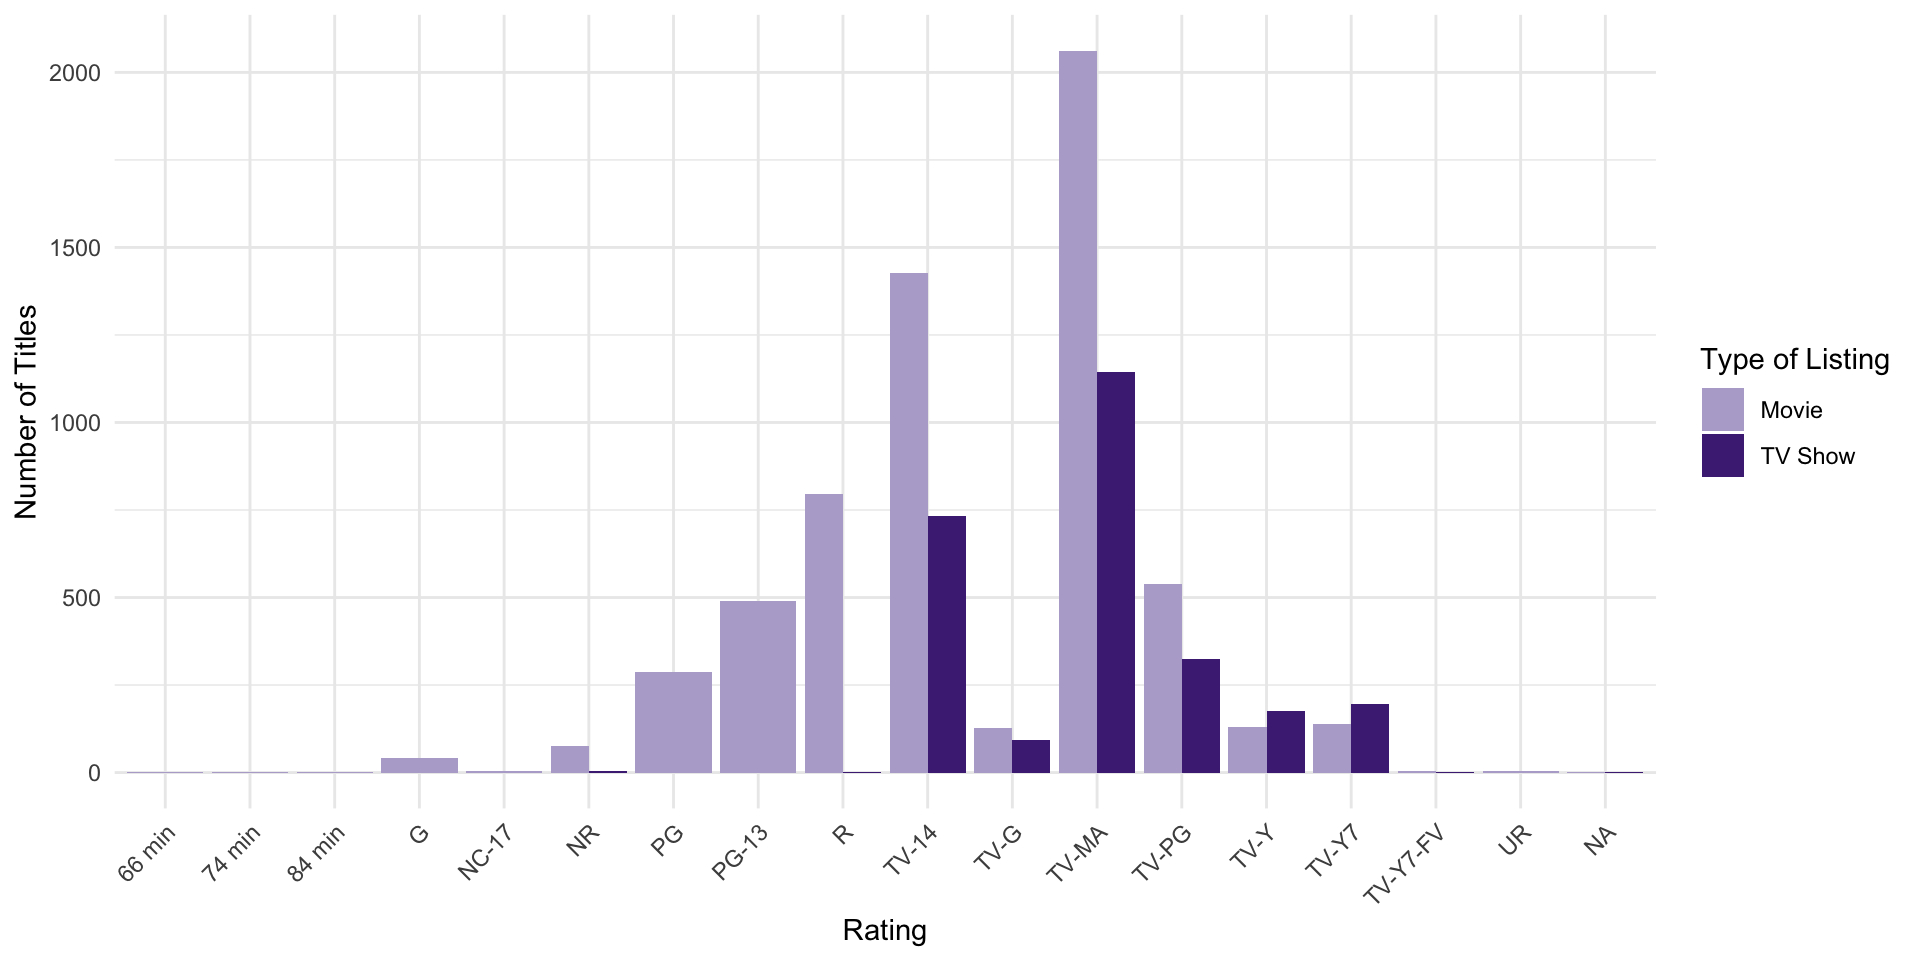
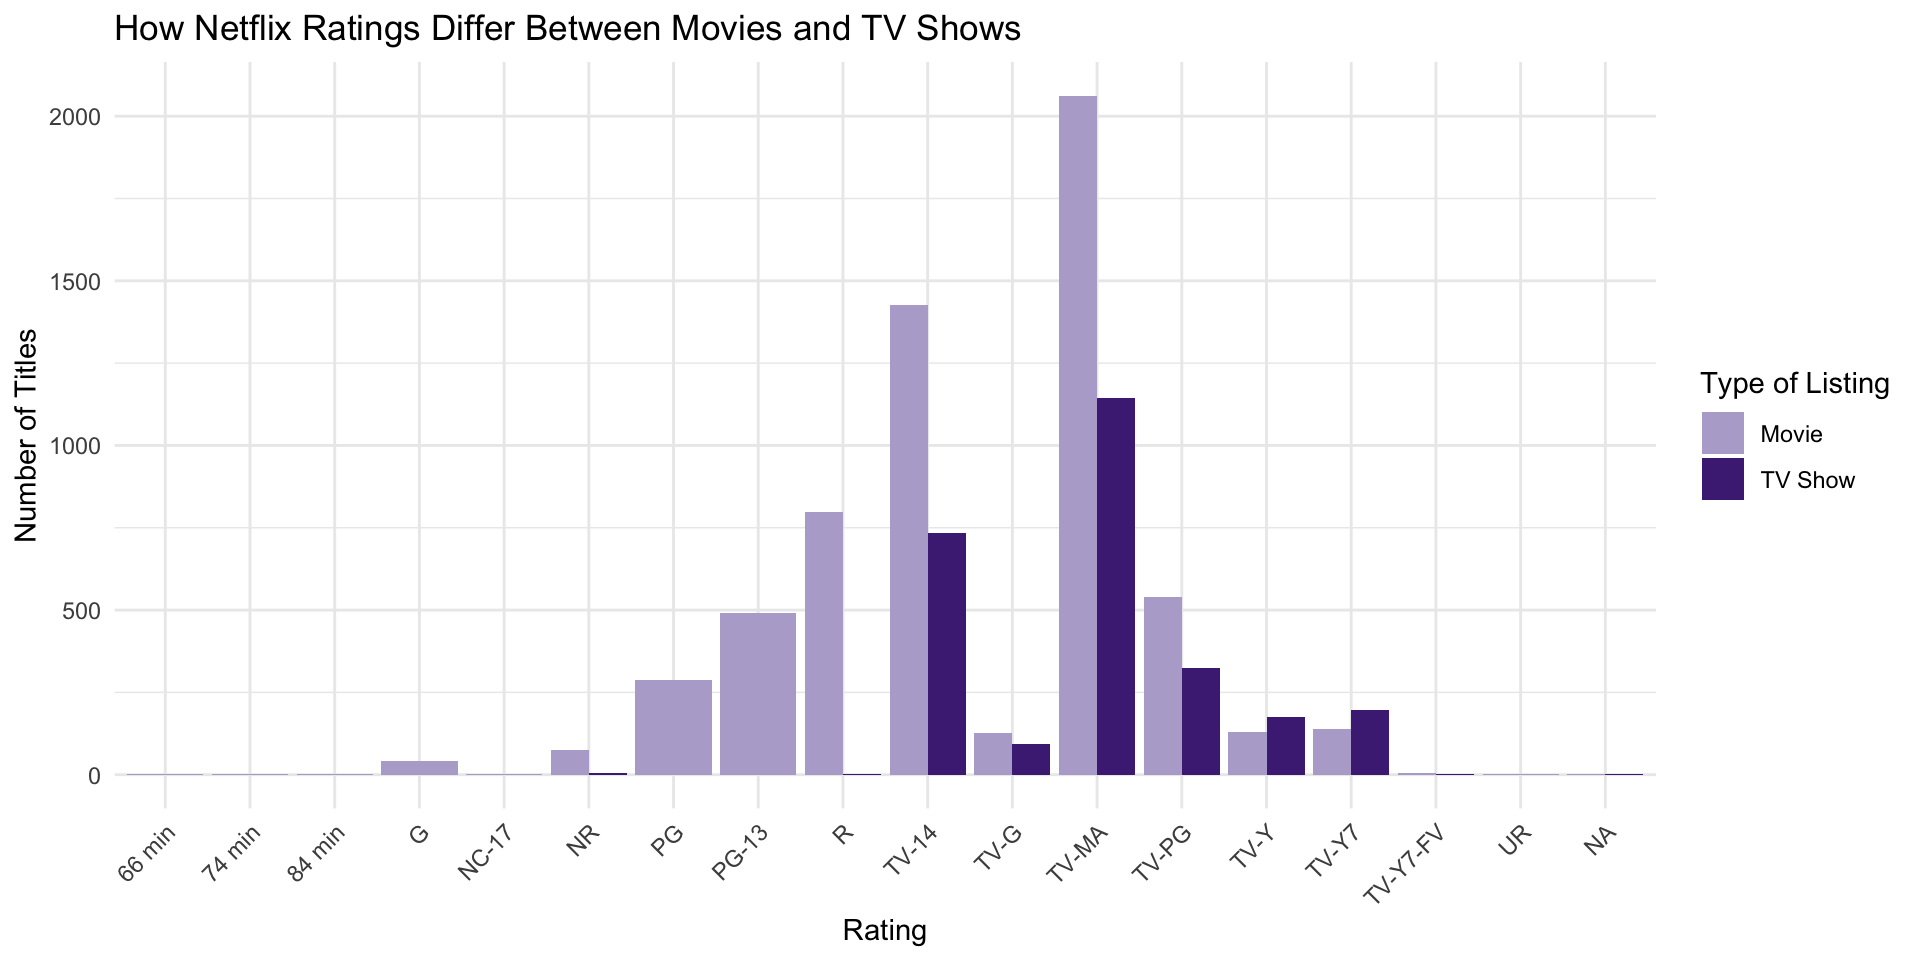
plot title

diff --git a/final_project_presentation.html b/final_project_presentation.html
@@ -358,23 +358,23 @@ Chiemela Onuoha
 <div class="content-center">
 <div class="cell">
 <div class="cell-output-display">
-<div id="lajhycfzrt" style="padding-left:0px;padding-right:0px;padding-top:10px;padding-bottom:10px;overflow-x:auto;overflow-y:auto;width:auto;height:auto;">
-<style>#lajhycfzrt table {
+<div id="cjeyrpwakg" style="padding-left:0px;padding-right:0px;padding-top:10px;padding-bottom:10px;overflow-x:auto;overflow-y:auto;width:auto;height:auto;">
+<style>#cjeyrpwakg table {
   font-family: system-ui, 'Segoe UI', Roboto, Helvetica, Arial, sans-serif, 'Apple Color Emoji', 'Segoe UI Emoji', 'Segoe UI Symbol', 'Noto Color Emoji';
   -webkit-font-smoothing: antialiased;
   -moz-osx-font-smoothing: grayscale;
 }
 
-#lajhycfzrt thead, #lajhycfzrt tbody, #lajhycfzrt tfoot, #lajhycfzrt tr, #lajhycfzrt td, #lajhycfzrt th {
+#cjeyrpwakg thead, #cjeyrpwakg tbody, #cjeyrpwakg tfoot, #cjeyrpwakg tr, #cjeyrpwakg td, #cjeyrpwakg th {
   border-style: none;
 }
 
-#lajhycfzrt p {
+#cjeyrpwakg p {
   margin: 0;
   padding: 0;
 }
 
-#lajhycfzrt .gt_table {
+#cjeyrpwakg .gt_table {
   display: table;
   border-collapse: collapse;
   line-height: normal;
@@ -400,12 +400,12 @@ Chiemela Onuoha
   border-left-color: #D3D3D3;
 }
 
-#lajhycfzrt .gt_caption {
+#cjeyrpwakg .gt_caption {
   padding-top: 4px;
   padding-bottom: 4px;
 }
 
-#lajhycfzrt .gt_title {
+#cjeyrpwakg .gt_title {
   color: #333333;
   font-size: 125%;
   font-weight: initial;
@@ -417,7 +417,7 @@ Chiemela Onuoha
   border-bottom-width: 0;
 }
 
-#lajhycfzrt .gt_subtitle {
+#cjeyrpwakg .gt_subtitle {
   color: #333333;
   font-size: 85%;
   font-weight: initial;
@@ -429,7 +429,7 @@ Chiemela Onuoha
   border-top-width: 0;
 }
 
-#lajhycfzrt .gt_heading {
+#cjeyrpwakg .gt_heading {
   background-color: #FFFFFF;
   text-align: center;
   border-bottom-color: #FFFFFF;
@@ -441,13 +441,13 @@ Chiemela Onuoha
   border-right-color: #D3D3D3;
 }
 
-#lajhycfzrt .gt_bottom_border {
+#cjeyrpwakg .gt_bottom_border {
   border-bottom-style: solid;
   border-bottom-width: 2px;
   border-bottom-color: #D3D3D3;
 }
 
-#lajhycfzrt .gt_col_headings {
+#cjeyrpwakg .gt_col_headings {
   border-top-style: solid;
   border-top-width: 2px;
   border-top-color: #D3D3D3;
@@ -462,7 +462,7 @@ Chiemela Onuoha
   border-right-color: #D3D3D3;
 }
 
-#lajhycfzrt .gt_col_heading {
+#cjeyrpwakg .gt_col_heading {
   color: #333333;
   background-color: #FFFFFF;
   font-size: 100%;
@@ -482,7 +482,7 @@ Chiemela Onuoha
   overflow-x: hidden;
 }
 
-#lajhycfzrt .gt_column_spanner_outer {
+#cjeyrpwakg .gt_column_spanner_outer {
   color: #333333;
   background-color: #FFFFFF;
   font-size: 100%;
@@ -494,15 +494,15 @@ Chiemela Onuoha
   padding-right: 4px;
 }
 
-#lajhycfzrt .gt_column_spanner_outer:first-child {
+#cjeyrpwakg .gt_column_spanner_outer:first-child {
   padding-left: 0;
 }
 
-#lajhycfzrt .gt_column_spanner_outer:last-child {
+#cjeyrpwakg .gt_column_spanner_outer:last-child {
   padding-right: 0;
 }
 
-#lajhycfzrt .gt_column_spanner {
+#cjeyrpwakg .gt_column_spanner {
   border-bottom-style: solid;
   border-bottom-width: 2px;
   border-bottom-color: #D3D3D3;
@@ -514,11 +514,11 @@ Chiemela Onuoha
   width: 100%;
 }
 
-#lajhycfzrt .gt_spanner_row {
+#cjeyrpwakg .gt_spanner_row {
   border-bottom-style: hidden;
 }
 
-#lajhycfzrt .gt_group_heading {
+#cjeyrpwakg .gt_group_heading {
   padding-top: 8px;
   padding-bottom: 8px;
   padding-left: 5px;
@@ -544,7 +544,7 @@ Chiemela Onuoha
   text-align: left;
 }
 
-#lajhycfzrt .gt_empty_group_heading {
+#cjeyrpwakg .gt_empty_group_heading {
   padding: 0.5px;
   color: #333333;
   background-color: #FFFFFF;
@@ -559,15 +559,15 @@ Chiemela Onuoha
   vertical-align: middle;
 }
 
-#lajhycfzrt .gt_from_md > :first-child {
+#cjeyrpwakg .gt_from_md > :first-child {
   margin-top: 0;
 }
 
-#lajhycfzrt .gt_from_md > :last-child {
+#cjeyrpwakg .gt_from_md > :last-child {
   margin-bottom: 0;
 }
 
-#lajhycfzrt .gt_row {
+#cjeyrpwakg .gt_row {
   padding-top: 8px;
   padding-bottom: 8px;
   padding-left: 5px;
@@ -586,7 +586,7 @@ Chiemela Onuoha
   overflow-x: hidden;
 }
 
-#lajhycfzrt .gt_stub {
+#cjeyrpwakg .gt_stub {
   color: #333333;
   background-color: #FFFFFF;
   font-size: 100%;
@@ -599,7 +599,7 @@ Chiemela Onuoha
   padding-right: 5px;
 }
 
-#lajhycfzrt .gt_stub_row_group {
+#cjeyrpwakg .gt_stub_row_group {
   color: #333333;
   background-color: #FFFFFF;
   font-size: 100%;
@@ -613,15 +613,15 @@ Chiemela Onuoha
   vertical-align: top;
 }
 
-#lajhycfzrt .gt_row_group_first td {
+#cjeyrpwakg .gt_row_group_first td {
   border-top-width: 2px;
 }
 
-#lajhycfzrt .gt_row_group_first th {
+#cjeyrpwakg .gt_row_group_first th {
   border-top-width: 2px;
 }
 
-#lajhycfzrt .gt_summary_row {
+#cjeyrpwakg .gt_summary_row {
   color: #333333;
   background-color: #FFFFFF;
   text-transform: inherit;
@@ -631,16 +631,16 @@ Chiemela Onuoha
   padding-right: 5px;
 }
 
-#lajhycfzrt .gt_first_summary_row {
+#cjeyrpwakg .gt_first_summary_row {
   border-top-style: solid;
   border-top-color: #D3D3D3;
 }
 
-#lajhycfzrt .gt_first_summary_row.thick {
+#cjeyrpwakg .gt_first_summary_row.thick {
   border-top-width: 2px;
 }
 
-#lajhycfzrt .gt_last_summary_row {
+#cjeyrpwakg .gt_last_summary_row {
   padding-top: 8px;
   padding-bottom: 8px;
   padding-left: 5px;
@@ -650,7 +650,7 @@ Chiemela Onuoha
   border-bottom-color: #D3D3D3;
 }
 
-#lajhycfzrt .gt_grand_summary_row {
+#cjeyrpwakg .gt_grand_summary_row {
   color: #333333;
   background-color: #FFFFFF;
   text-transform: inherit;
@@ -660,7 +660,7 @@ Chiemela Onuoha
   padding-right: 5px;
 }
 
-#lajhycfzrt .gt_first_grand_summary_row {
+#cjeyrpwakg .gt_first_grand_summary_row {
   padding-top: 8px;
   padding-bottom: 8px;
   padding-left: 5px;
@@ -670,7 +670,7 @@ Chiemela Onuoha
   border-top-color: #D3D3D3;
 }
 
-#lajhycfzrt .gt_last_grand_summary_row_top {
+#cjeyrpwakg .gt_last_grand_summary_row_top {
   padding-top: 8px;
   padding-bottom: 8px;
   padding-left: 5px;
@@ -680,11 +680,11 @@ Chiemela Onuoha
   border-bottom-color: #D3D3D3;
 }
 
-#lajhycfzrt .gt_striped {
+#cjeyrpwakg .gt_striped {
   background-color: rgba(128, 128, 128, 0.05);
 }
 
-#lajhycfzrt .gt_table_body {
+#cjeyrpwakg .gt_table_body {
   border-top-style: solid;
   border-top-width: 2px;
   border-top-color: #D3D3D3;
@@ -693,7 +693,7 @@ Chiemela Onuoha
   border-bottom-color: #D3D3D3;
 }
 
-#lajhycfzrt .gt_footnotes {
+#cjeyrpwakg .gt_footnotes {
   color: #333333;
   background-color: #FFFFFF;
   border-bottom-style: none;
@@ -707,7 +707,7 @@ Chiemela Onuoha
   border-right-color: #D3D3D3;
 }
 
-#lajhycfzrt .gt_footnote {
+#cjeyrpwakg .gt_footnote {
   margin: 0px;
   font-size: 90%;
   padding-top: 4px;
@@ -716,7 +716,7 @@ Chiemela Onuoha
   padding-right: 5px;
 }
 
-#lajhycfzrt .gt_sourcenotes {
+#cjeyrpwakg .gt_sourcenotes {
   color: #333333;
   background-color: #FFFFFF;
   border-bottom-style: none;
@@ -730,7 +730,7 @@ Chiemela Onuoha
   border-right-color: #D3D3D3;
 }
 
-#lajhycfzrt .gt_sourcenote {
+#cjeyrpwakg .gt_sourcenote {
   font-size: 90%;
   padding-top: 4px;
   padding-bottom: 4px;
@@ -738,72 +738,72 @@ Chiemela Onuoha
   padding-right: 5px;
 }
 
-#lajhycfzrt .gt_left {
+#cjeyrpwakg .gt_left {
   text-align: left;
 }
 
-#lajhycfzrt .gt_center {
+#cjeyrpwakg .gt_center {
   text-align: center;
 }
 
-#lajhycfzrt .gt_right {
+#cjeyrpwakg .gt_right {
   text-align: right;
   font-variant-numeric: tabular-nums;
 }
 
-#lajhycfzrt .gt_font_normal {
+#cjeyrpwakg .gt_font_normal {
   font-weight: normal;
 }
 
-#lajhycfzrt .gt_font_bold {
+#cjeyrpwakg .gt_font_bold {
   font-weight: bold;
 }
 
-#lajhycfzrt .gt_font_italic {
+#cjeyrpwakg .gt_font_italic {
   font-style: italic;
 }
 
-#lajhycfzrt .gt_super {
+#cjeyrpwakg .gt_super {
   font-size: 65%;
 }
 
-#lajhycfzrt .gt_footnote_marks {
+#cjeyrpwakg .gt_footnote_marks {
   font-size: 75%;
   vertical-align: 0.4em;
   position: initial;
 }
 
-#lajhycfzrt .gt_asterisk {
+#cjeyrpwakg .gt_asterisk {
   font-size: 100%;
   vertical-align: 0;
 }
 
-#lajhycfzrt .gt_indent_1 {
+#cjeyrpwakg .gt_indent_1 {
   text-indent: 5px;
 }
 
-#lajhycfzrt .gt_indent_2 {
+#cjeyrpwakg .gt_indent_2 {
   text-indent: 10px;
 }
 
-#lajhycfzrt .gt_indent_3 {
+#cjeyrpwakg .gt_indent_3 {
   text-indent: 15px;
 }
 
-#lajhycfzrt .gt_indent_4 {
+#cjeyrpwakg .gt_indent_4 {
   text-indent: 20px;
 }
 
-#lajhycfzrt .gt_indent_5 {
+#cjeyrpwakg .gt_indent_5 {
   text-indent: 25px;
 }
 
-#lajhycfzrt .katex-display {
+#cjeyrpwakg .katex-display {
   display: inline-flex !important;
   margin-bottom: 0.75em !important;
 }
 
-#lajhycfzrt div.Reactable > div.rt-table > div.rt-thead > div.rt-tr.rt-tr-group-header > div.rt-th-group:after {
+#cjeyrpwakg div.Reactable > div.rt-table > div.rt-thead > div.rt-tr.rt-tr-group-header > div.rt-th-group:after {
   height: 0px !important;
 }
 </style>
